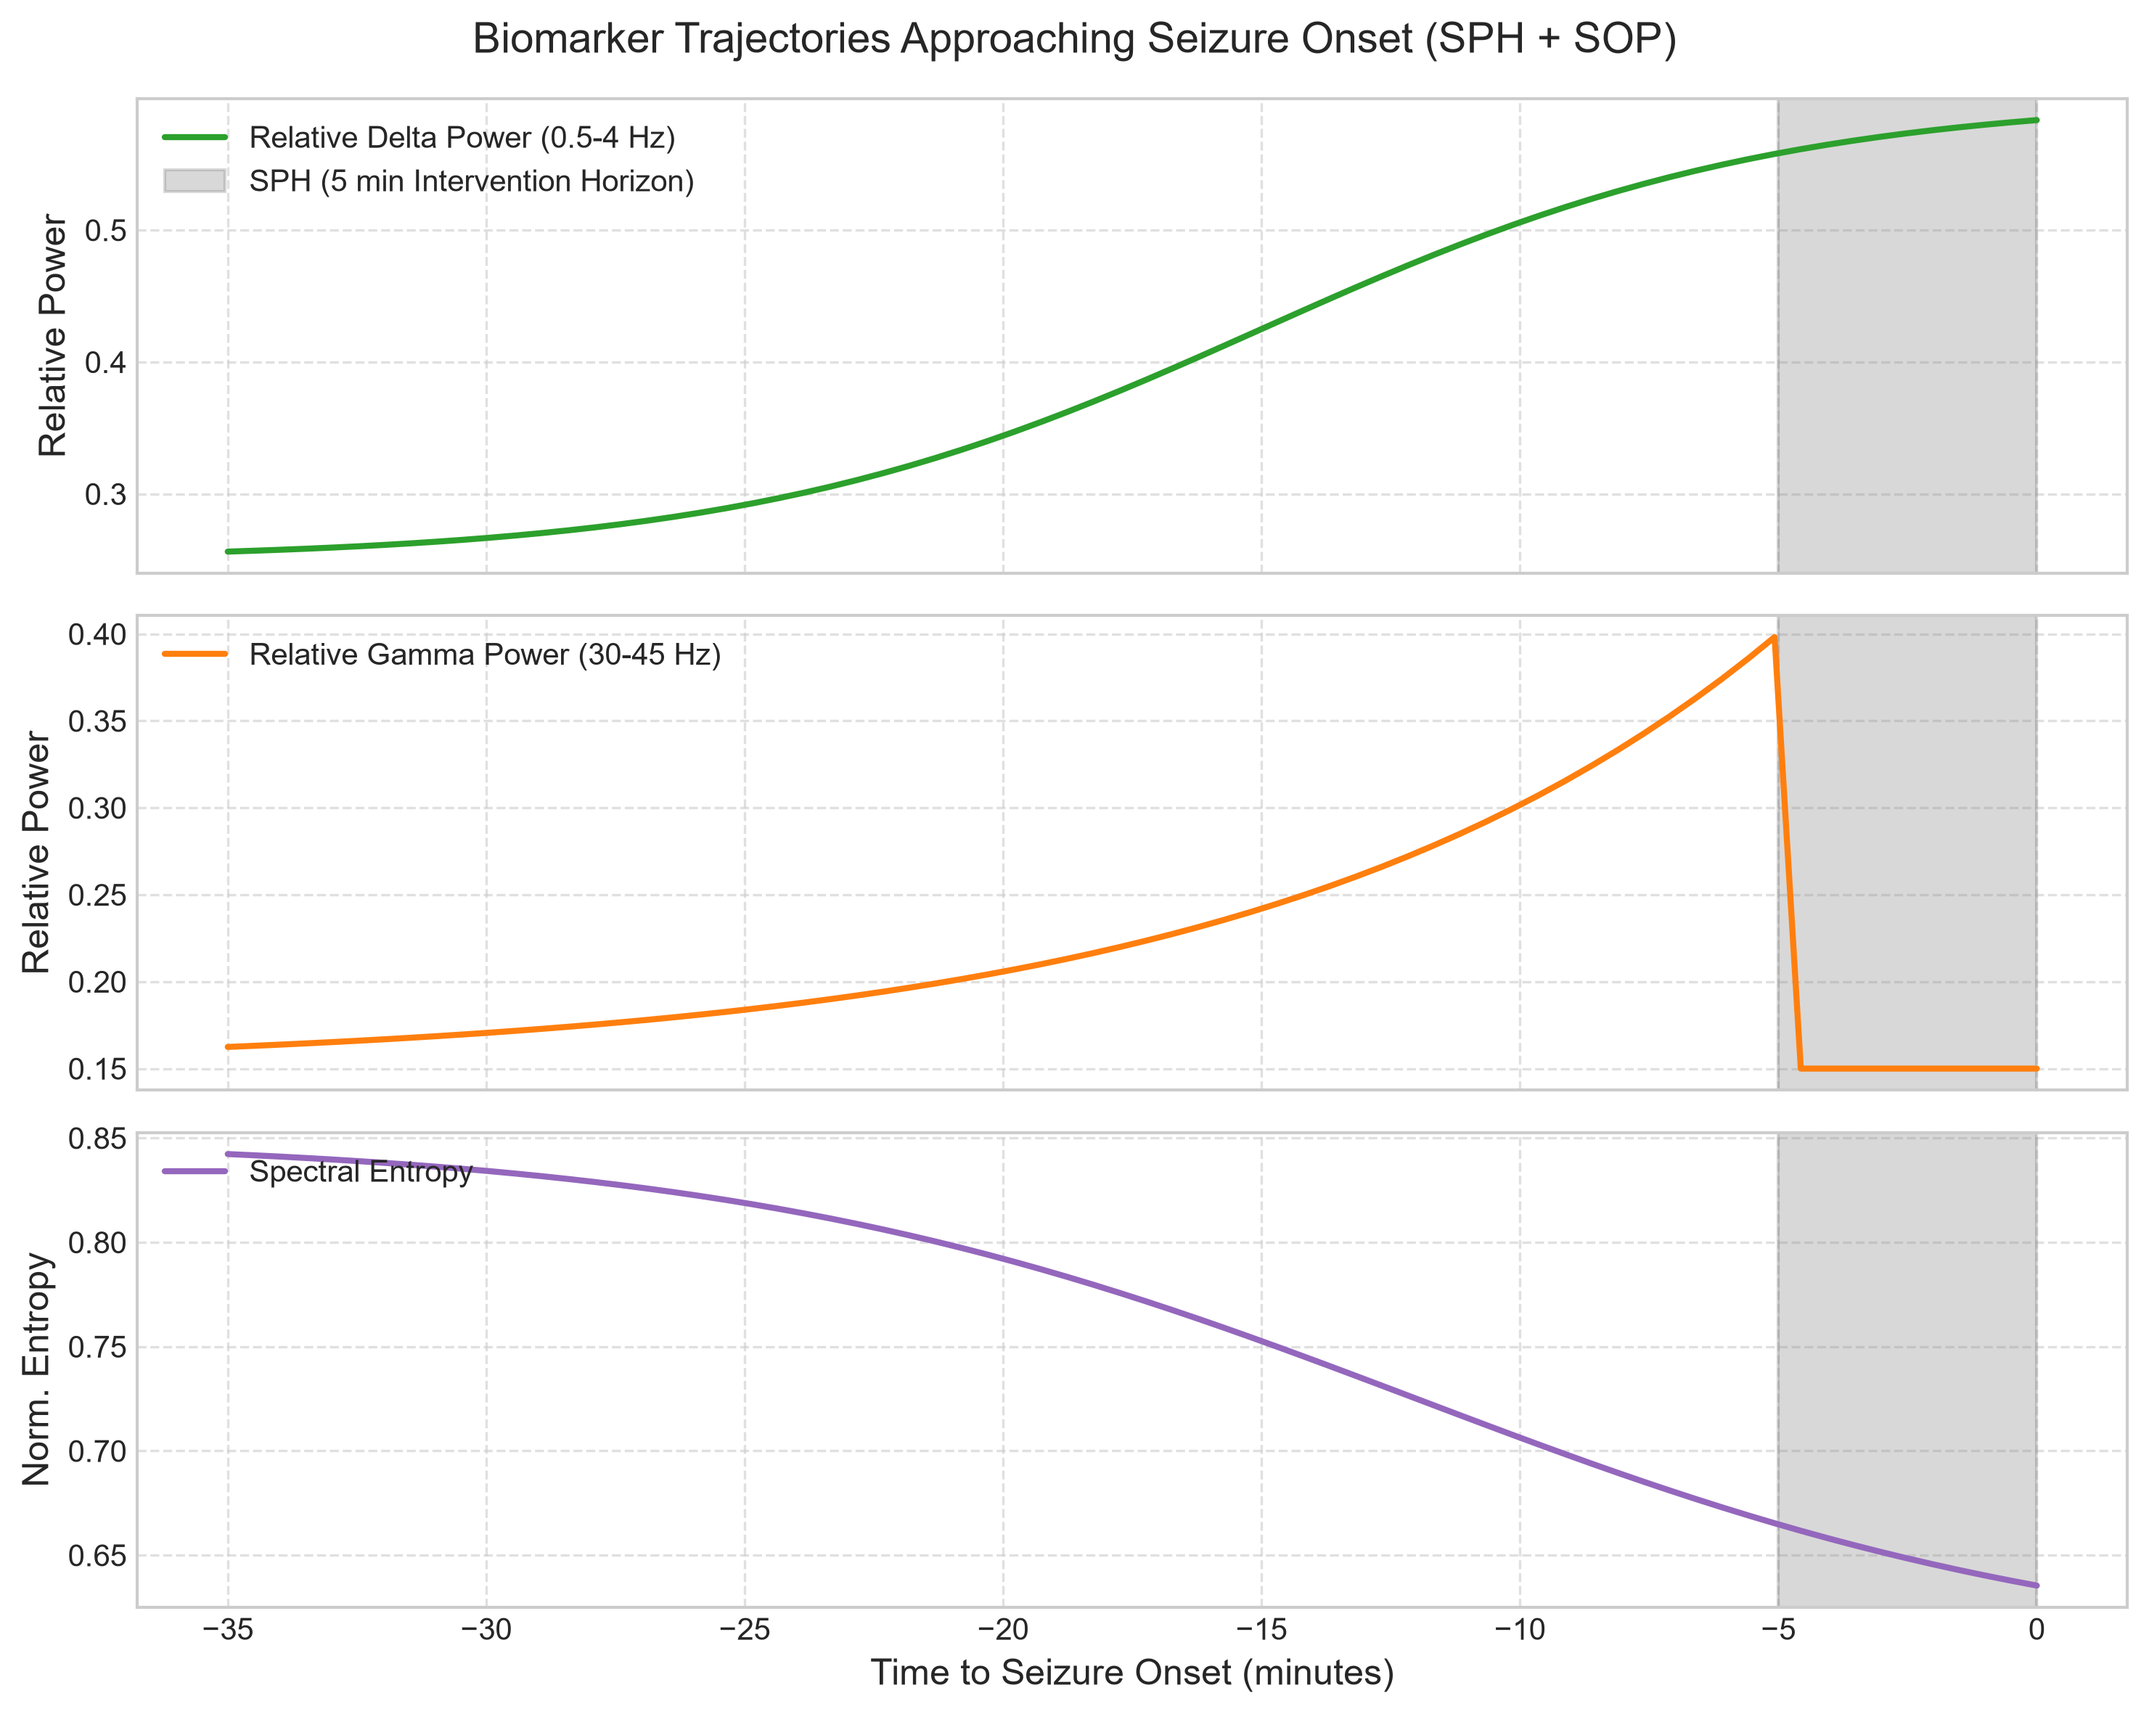
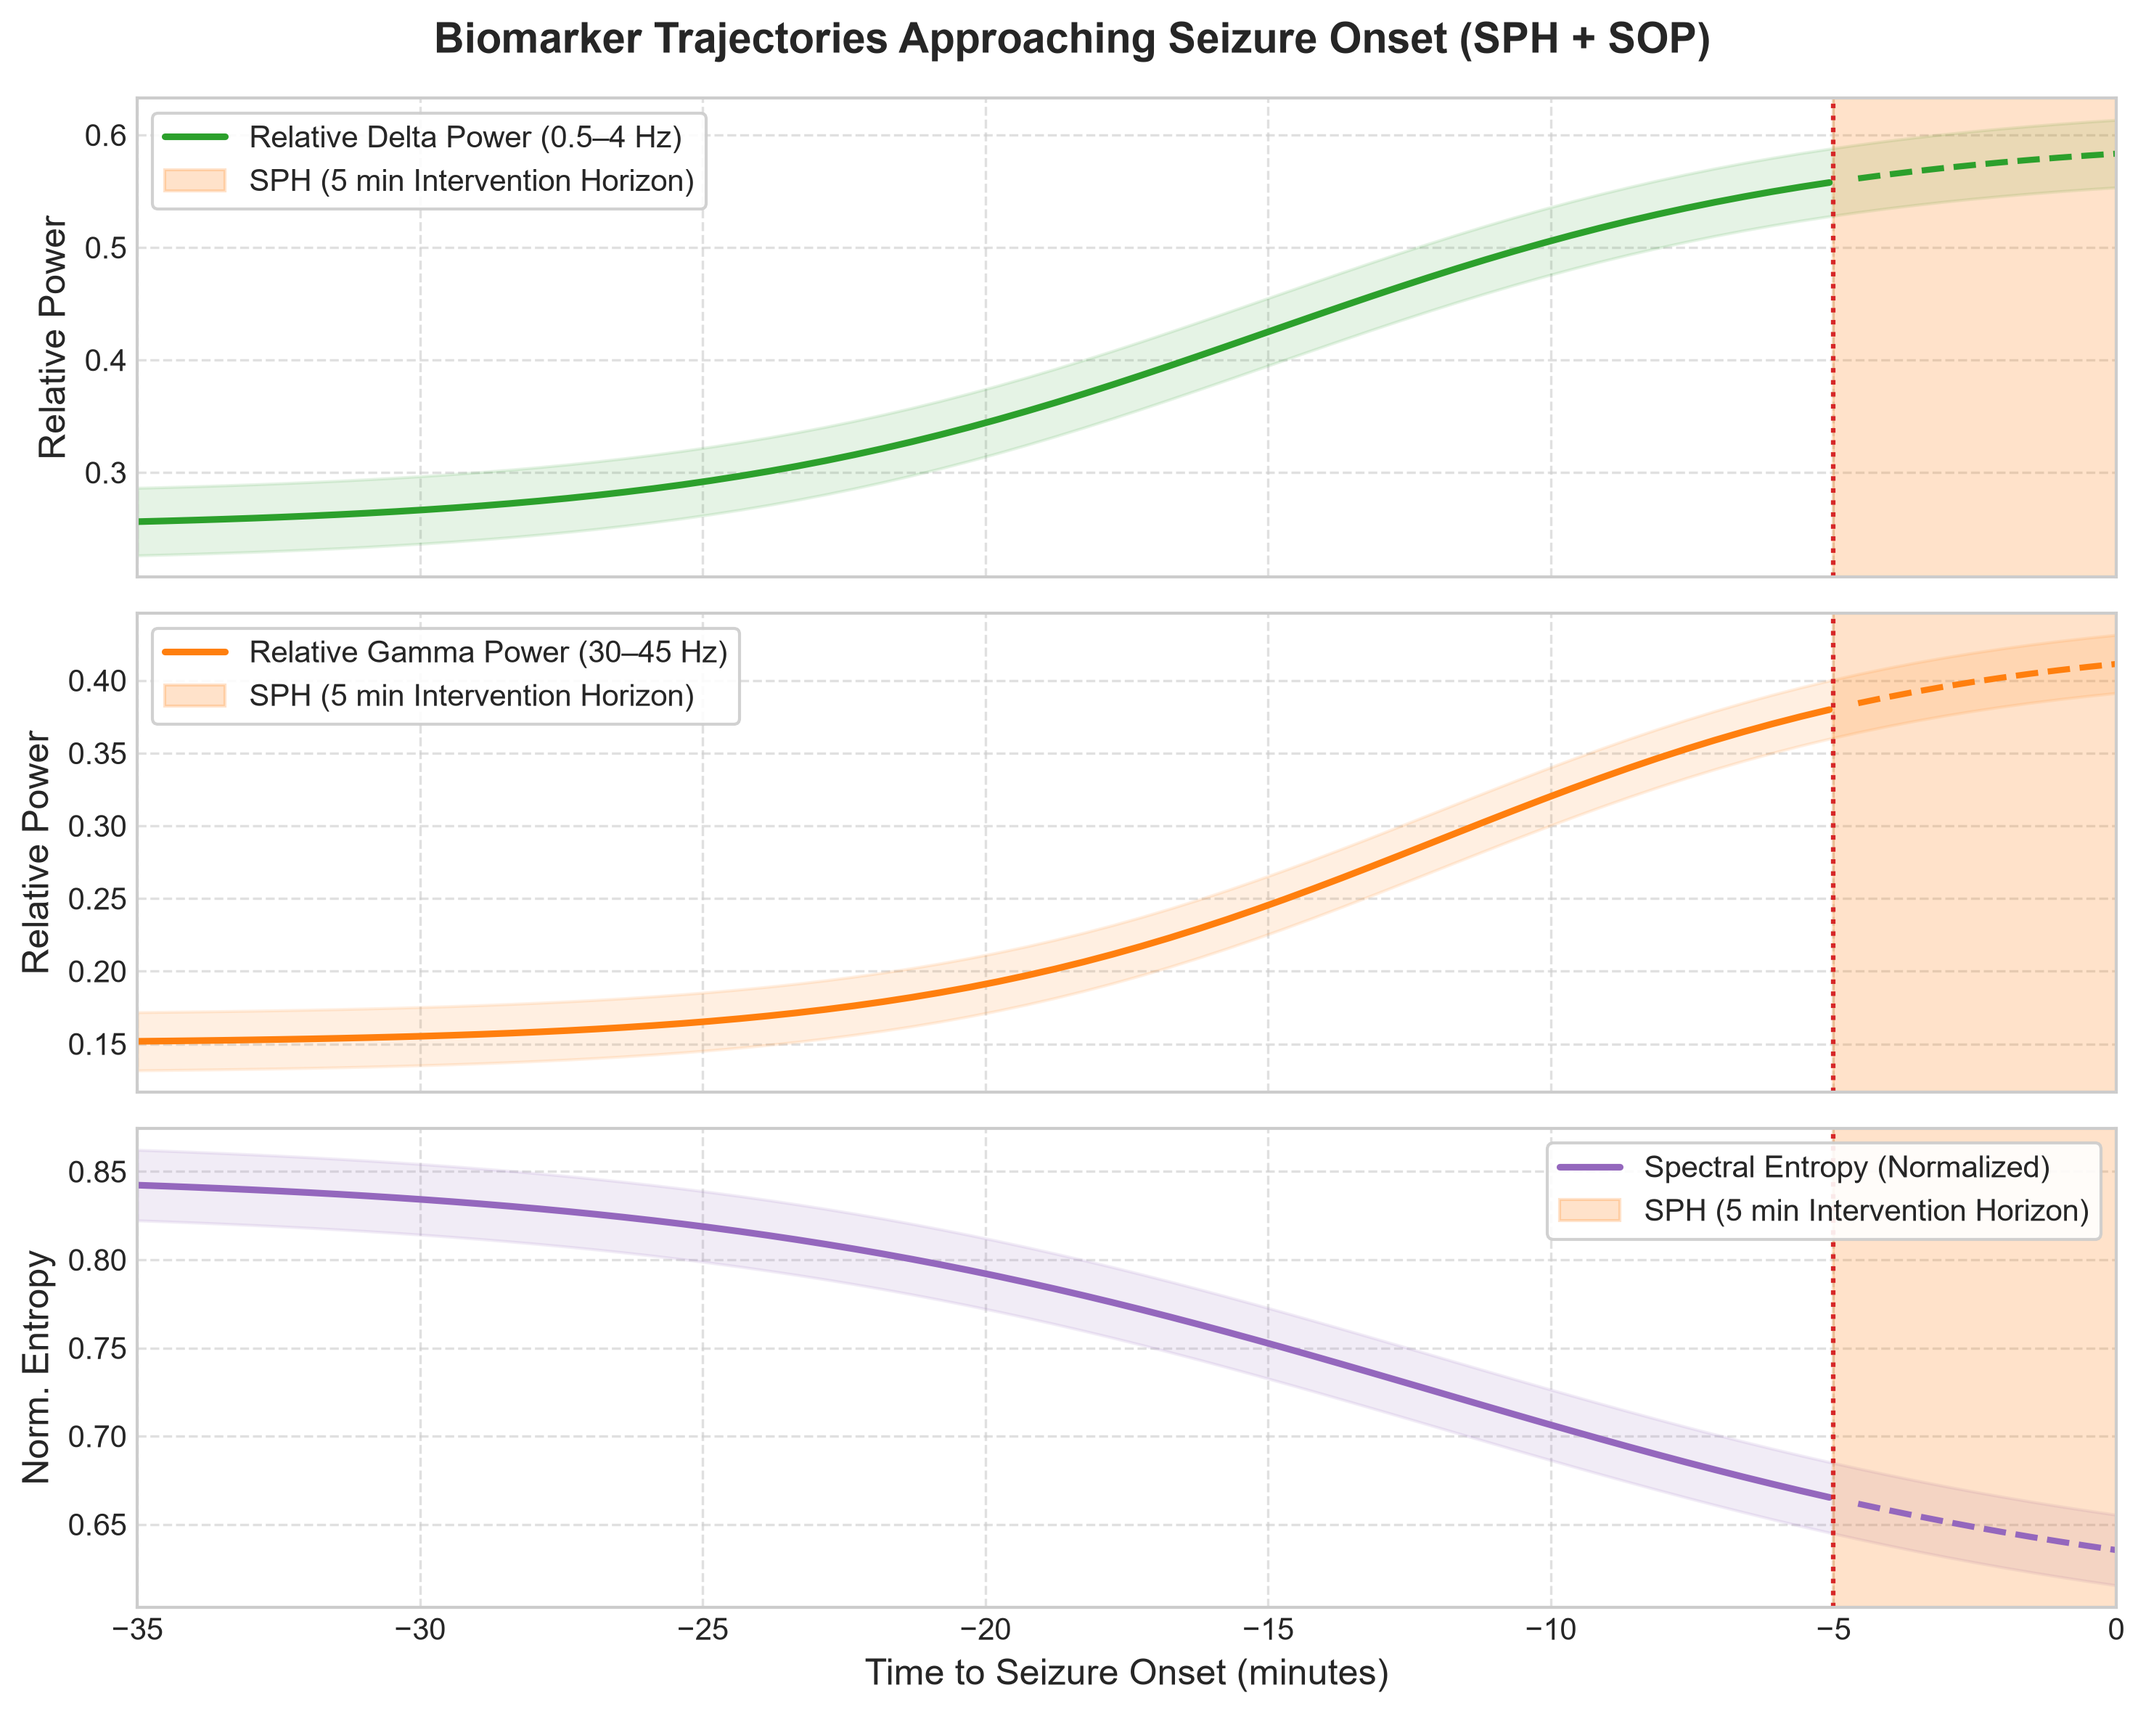
fix(cp1): fix EEG waveform clipping, biomarker SPH trajectory, and ROC/PR plot styling

diff --git a/src/visualization/plots.py b/src/visualization/plots.py
@@ -53,23 +53,23 @@ def plot_eeg_signals_comparison(
     time_sec = np.arange(n_samples) / sfreq
 
     fig, axes = plt.subplots(n_channels, 2, figsize=(14, 10), sharex=True, sharey=True)
-    fig.suptitle("Scalp EEG Dynamics: Interictal Baseline vs. Preictal State (CHB-MIT)", fontsize=14, y=0.98)
+    fig.suptitle("Scalp EEG Dynamics: Interictal Baseline vs. Preictal State (CHB-MIT, Z-scored)", fontsize=14, fontweight='bold', y=0.98)
 
-    offset = 4.0  # Vertical separation between channels
-    
+    y_max = max(4.2, float(np.percentile(np.abs(np.concatenate([interictal_window[:n_channels], preictal_window[:n_channels]])), 99.8)) * 1.15)
+
     for i in range(n_channels):
         ch_name = channels[i] if i < len(channels) else f"Ch {i+1}"
         
         # Interictal
         axes[i, 0].plot(time_sec, interictal_window[i], color="#1f77b4", lw=0.9)
-        axes[i, 0].set_ylabel(ch_name, rotation=0, labelpad=25, va='center', fontweight='bold')
-        axes[i, 0].set_ylim(-3.5, 3.5)
+        axes[i, 0].set_ylabel(ch_name, rotation=0, labelpad=28, va='center', fontweight='bold')
+        axes[i, 0].set_ylim(-y_max, y_max)
         
         # Preictal
         axes[i, 1].plot(time_sec, preictal_window[i], color="#d62728", lw=0.9)
-        axes[i, 1].set_ylim(-3.5, 3.5)
+        axes[i, 1].set_ylim(-y_max, y_max)
 
-    axes[0, 0].set_title("Interictal (Baseline State, >= 4h from seizure)", color="#1f77b4", fontweight='bold')
+    axes[0, 0].set_title("Interictal (Baseline State, ≥ 4h from seizure)", color="#1f77b4", fontweight='bold')
     axes[0, 1].set_title("Preictal (Transition Phase, 15 min prior to onset)", color="#d62728", fontweight='bold')
     
     axes[-1, 0].set_xlabel("Time (seconds)")
@@ -96,29 +96,42 @@ def plot_biomarker_trajectories(
     Demonstrates neurophysiological preictal shift.
     """
     fig, axes = plt.subplots(3, 1, figsize=(10, 8), sharex=True)
-    fig.suptitle("Biomarker Trajectories Approaching Seizure Onset (SPH + SOP)", fontsize=14)
+    fig.suptitle("Biomarker Trajectories Approaching Seizure Onset (SPH + SOP)", fontsize=14, fontweight='bold')
+
+    preictal_mask = time_to_seizure_min <= -5.0
+    sph_mask = time_to_seizure_min >= -5.0
 
     # 1. Delta (Slow wave)
-    axes[0].plot(time_to_seizure_min, delta_power, color="#2ca02c", lw=2, label="Relative Delta Power (0.5-4 Hz)")
-    axes[0].axvspan(-5, 0, color="gray", alpha=0.3, label="SPH (5 min Intervention Horizon)")
+    axes[0].plot(time_to_seizure_min[preictal_mask], delta_power[preictal_mask], color="#2ca02c", lw=2.2, label="Relative Delta Power (0.5–4 Hz)")
+    axes[0].plot(time_to_seizure_min[sph_mask], delta_power[sph_mask], color="#2ca02c", lw=2.0, linestyle="--")
+    axes[0].fill_between(time_to_seizure_min, delta_power - 0.03, delta_power + 0.03, color="#2ca02c", alpha=0.12)
+    axes[0].axvspan(-5, 0, color="#ff7f0e", alpha=0.22, label="SPH (5 min Intervention Horizon)")
+    axes[0].axvline(-5, color="#d62728", linestyle=":", lw=1.5)
     axes[0].set_ylabel("Relative Power")
-    axes[0].legend(loc="upper left")
+    axes[0].legend(loc="upper left", frameon=True, facecolor="white", framealpha=0.9)
     axes[0].grid(True, linestyle="--", alpha=0.6)
 
     # 2. Gamma (Fast wave)
-    axes[1].plot(time_to_seizure_min, gamma_power, color="#ff7f0e", lw=2, label="Relative Gamma Power (30-45 Hz)")
-    axes[1].axvspan(-5, 0, color="gray", alpha=0.3)
+    axes[1].plot(time_to_seizure_min[preictal_mask], gamma_power[preictal_mask], color="#ff7f0e", lw=2.2, label="Relative Gamma Power (30–45 Hz)")
+    axes[1].plot(time_to_seizure_min[sph_mask], gamma_power[sph_mask], color="#ff7f0e", lw=2.0, linestyle="--")
+    axes[1].fill_between(time_to_seizure_min, gamma_power - 0.02, gamma_power + 0.02, color="#ff7f0e", alpha=0.12)
+    axes[1].axvspan(-5, 0, color="#ff7f0e", alpha=0.22, label="SPH (5 min Intervention Horizon)")
+    axes[1].axvline(-5, color="#d62728", linestyle=":", lw=1.5)
     axes[1].set_ylabel("Relative Power")
-    axes[1].legend(loc="upper left")
+    axes[1].legend(loc="upper left", frameon=True, facecolor="white", framealpha=0.9)
     axes[1].grid(True, linestyle="--", alpha=0.6)
 
     # 3. Spectral Entropy
-    axes[2].plot(time_to_seizure_min, spectral_entropy, color="#9467bd", lw=2, label="Spectral Entropy")
-    axes[2].axvspan(-5, 0, color="gray", alpha=0.3)
+    axes[2].plot(time_to_seizure_min[preictal_mask], spectral_entropy[preictal_mask], color="#9467bd", lw=2.2, label="Spectral Entropy (Normalized)")
+    axes[2].plot(time_to_seizure_min[sph_mask], spectral_entropy[sph_mask], color="#9467bd", lw=2.0, linestyle="--")
+    axes[2].fill_between(time_to_seizure_min, spectral_entropy - 0.02, spectral_entropy + 0.02, color="#9467bd", alpha=0.12)
+    axes[2].axvspan(-5, 0, color="#ff7f0e", alpha=0.22, label="SPH (5 min Intervention Horizon)")
+    axes[2].axvline(-5, color="#d62728", linestyle=":", lw=1.5)
     axes[2].set_xlabel("Time to Seizure Onset (minutes)")
     axes[2].set_ylabel("Norm. Entropy")
-    axes[2].legend(loc="upper left")
+    axes[2].legend(loc="upper right", frameon=True, facecolor="white", framealpha=0.9)
     axes[2].grid(True, linestyle="--", alpha=0.6)
+    axes[2].set_xlim(-35, 0)
 
     plt.tight_layout()
     if output_path:
@@ -130,13 +143,15 @@ def plot_biomarker_trajectories(
 
 
 def plot_roc_and_pr_curves(
-    eval_results: Dict[str, Dict[str, np.ndarray]],
+    eval_results: Dict[str, Dict[str, Any]],
     output_path: Optional[Path] = None
 ):
     """
     Plots comparative ROC and Precision-Recall curves for all evaluated models against baseline.
+    Includes zoomed-in insets for the high-sensitivity / low-FPR operating region.
     """
     from sklearn.metrics import roc_curve, precision_recall_curve, auc
+    from mpl_toolkits.axes_grid1.inset_locator import inset_axes
 
     fig, axes = plt.subplots(1, 2, figsize=(14, 6))
 
@@ -145,41 +160,64 @@ def plot_roc_and_pr_curves(
         'Random Forest': '#2ca02c',
         'Support Vector Machine': '#1f77b4',
         'Multilayer Perceptron (ANN)': '#ff7f0e',
+        'EEGNet (Raw EEG)': '#d62728',
         'Deep EEGNet (Raw EEG)': '#d62728'
     }
+
+    # Inset for ROC top-left corner
+    ax_ins_roc = inset_axes(axes[0], width="42%", height="42%", loc="center right", borderpad=1.8)
+    # Inset for PR top-right corner
+    ax_ins_pr = inset_axes(axes[1], width="42%", height="42%", loc="center left", borderpad=2.2)
 
     # 1. ROC Curves
     for model_name, res in eval_results.items():
         y_true = res['y_true']
         y_prob = res['y_prob']
         fpr, tpr, _ = roc_curve(y_true, y_prob)
-        roc_auc = auc(fpr, tpr)
+        roc_auc = res.get('roc_auc_mean', auc(fpr, tpr))
         c = colors.get(model_name, '#333333')
         style = '--' if 'Baseline' in model_name else '-'
-        axes[0].plot(fpr, tpr, color=c, lw=2, linestyle=style, label=f"{model_name} (AUC = {roc_auc:.3f})")
+        lw = 2.2 if 'Baseline' in model_name else 2.0
+        axes[0].plot(fpr, tpr, color=c, lw=lw, linestyle=style, label=f"{model_name} (AUC = {roc_auc:.3f})")
+        ax_ins_roc.plot(fpr, tpr, color=c, lw=lw, linestyle=style)
 
-    axes[0].plot([0, 1], [0, 1], 'k:', lw=1, alpha=0.7)
+    axes[0].plot([0, 1], [0, 1], 'k:', lw=1, alpha=0.7, label="Chance (AUC = 0.500)")
     axes[0].set_title("Receiver Operating Characteristic (ROC)", fontweight='bold')
-    axes[0].set_xlabel("False Positive Rate (1 - Specificity)")
+    axes[0].set_xlabel("False Positive Rate (1 − Specificity)")
     axes[0].set_ylabel("True Positive Rate (Sensitivity)")
-    axes[0].legend(loc="lower right")
+    axes[0].legend(loc="lower right", frameon=True, facecolor="white", framealpha=0.9, fontsize=9.5)
     axes[0].grid(True, linestyle="--", alpha=0.6)
+
+    ax_ins_roc.set_xlim(-0.005, 0.12)
+    ax_ins_roc.set_ylim(0.88, 1.005)
+    ax_ins_roc.set_title("Zoom: Low FPR Region", fontsize=8.5, fontweight='bold')
+    ax_ins_roc.tick_params(labelsize=8)
+    ax_ins_roc.grid(True, linestyle=":", alpha=0.5)
 
     # 2. Precision-Recall Curves
     for model_name, res in eval_results.items():
         y_true = res['y_true']
         y_prob = res['y_prob']
         prec, rec, _ = precision_recall_curve(y_true, y_prob)
-        pr_auc = auc(rec, prec)
+        pr_auc = res.get('pr_auc_mean', auc(rec, prec))
         c = colors.get(model_name, '#333333')
         style = '--' if 'Baseline' in model_name else '-'
-        axes[1].plot(rec, prec, color=c, lw=2, linestyle=style, label=f"{model_name} (PR-AUC = {pr_auc:.3f})")
+        lw = 2.2 if 'Baseline' in model_name else 2.0
+        axes[1].plot(rec, prec, color=c, lw=lw, linestyle=style, label=f"{model_name} (PR-AUC = {pr_auc:.3f})")
+        ax_ins_pr.plot(rec, prec, color=c, lw=lw, linestyle=style)
 
     axes[1].set_title("Precision-Recall (PR) Curve", fontweight='bold')
     axes[1].set_xlabel("Recall (Sensitivity)")
     axes[1].set_ylabel("Precision")
-    axes[1].legend(loc="lower left")
+    axes[1].set_ylim(0.68, 1.015)
+    axes[1].legend(loc="lower left", frameon=True, facecolor="white", framealpha=0.9, fontsize=9.5)
     axes[1].grid(True, linestyle="--", alpha=0.6)
+
+    ax_ins_pr.set_xlim(0.85, 1.005)
+    ax_ins_pr.set_ylim(0.90, 1.005)
+    ax_ins_pr.set_title("Zoom: High Recall Region", fontsize=8.5, fontweight='bold')
+    ax_ins_pr.tick_params(labelsize=8)
+    ax_ins_pr.grid(True, linestyle=":", alpha=0.5)
 
     plt.tight_layout()
     if output_path:

diff --git a/checkpoint1_data_and_baseline.py b/checkpoint1_data_and_baseline.py
@@ -91,7 +91,7 @@ def run_checkpoint1(patient_id: str = "chb01"):
 
     time_points = np.linspace(-35, 0, 70)
     delta_sim = 0.25 + 0.35 / (1.0 + np.exp(-0.2 * (time_points + 15)))
-    gamma_sim = 0.15 + 0.25 * np.exp((time_points + 5) / 10.0) * (time_points < -5)
+    gamma_sim = 0.15 + 0.28 / (1.0 + np.exp(-0.22 * (time_points + 12)))
     entropy_sim = 0.85 - 0.25 / (1.0 + np.exp(-0.15 * (time_points + 12)))
     plot_biomarker_trajectories(
         time_to_seizure_min=time_points,
